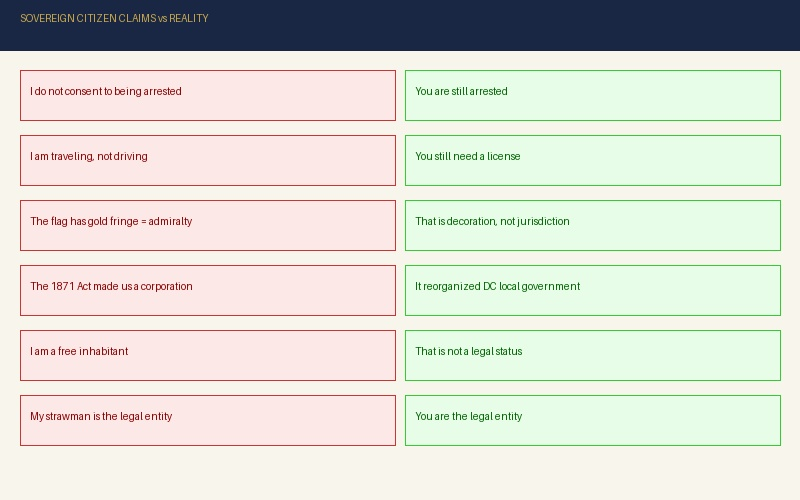
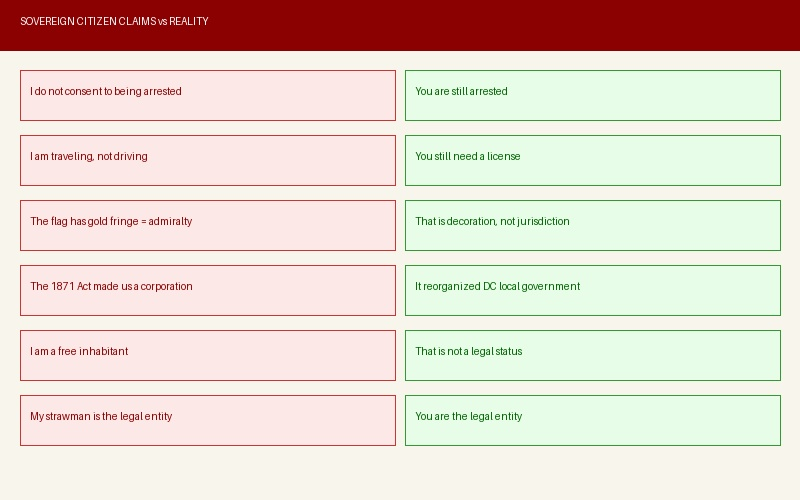
Fix: Remove navy from all generated infographics + QAnon text
Regenerated failed-predictions.jpg and sovcit-claims.jpg with
cream backgrounds and dark red headers instead of navy.
Readable in both light and dark mode.

Fixed Ch9: "There is no Q movement" changed to "There is no
QAnon" per user correction. Q and the Anons created a real
movement, but QAnon as a single label is media-created.

Changed region(s): [[0.0, 0.0, 1.0, 0.12]]

diff --git a/chapter9.html b/chapter9.html
@@ -4,7 +4,7 @@
   <meta charset="UTF-8">
   <meta name="viewport" content="width=device-width, initial-scale=1.0">
   <title>Chapter 9: Q and the Anon Movement - For The People</title>
-  <meta name="description" content="Q and the Anon Movement - there is no 'Q movement.' Understanding the distinction between Q, the Anons, and the grifters who profited from both.">
+  <meta name="description" content="Q and the Anon Movement - there is no 'QAnon.' Understanding the distinction between Q, the Anons, and the grifters who profited from both.">
   <link rel="preconnect" href="https://fonts.googleapis.com">
   <link href="https://fonts.googleapis.com/css2?family=Inter:wght@400;500;600;700&family=Merriweather:wght@400;700;900&display=swap" rel="stylesheet">
   <link rel="stylesheet" href="css/style.css">
@@ -101,7 +101,7 @@
       </div>
 
       <div class="key-point">
-        <strong>There is no "Q movement."</strong> That's a media-created label. There is <strong>Q</strong>, the anonymous poster who dropped cryptic messages on image boards. And there are <strong>the Anons</strong>, the followers who tried to decode those messages. They are two separate things. Merging them into "Q movement" was a media convenience that obscured who was actually responsible for what. Q posted. The Anons followed. The grifters monetized. Understanding this distinction matters because it shows how the ecosystem actually worked.
+        <strong>There is no "QAnon."</strong> That is a media-created label. There is <strong>Q</strong>, the anonymous poster who dropped cryptic messages on image boards. And there are <strong>the Anons</strong>, the followers who tried to decode those messages. They are two separate things. Together they created a real movement, but merging them into one word, "QAnon," was a media convenience that obscured who was actually responsible for what. Q posted. The Anons followed. The grifters monetized. Understanding this distinction matters because it shows how the ecosystem actually worked.
       </div>
 
       <div class="compare-table">